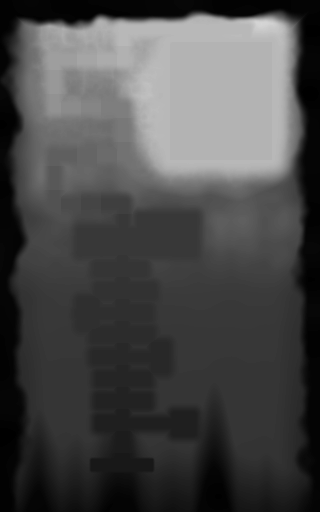
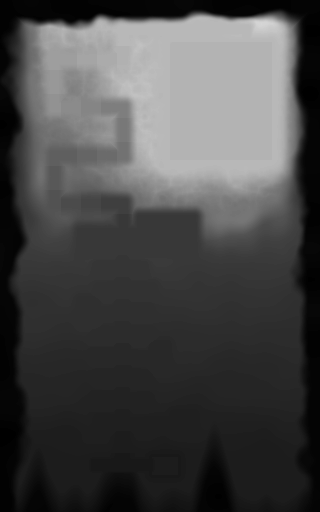
fix(foot-of-the-mountain): the shoulder falls away below the town so the lower street is not in a cut; a broader summit plateau round Doune; the harbour plot on the quay's east side
node/harbour: [153,458], extent [24,16], floor 64, a contact on the
quay's east face; a stand-in, its program the buildings round's.
Town: 24,231 of 133,781 land columns (18.1%) within eight cells of a town box.

Changed region(s): [[0.3125, 0.2188, 0.9062, 0.4375], [0.2812, 0.125, 0.4062, 0.2812], [0.4688, 0.875, 0.5, 0.9062]]

diff --git a/campaigns/foot-of-the-mountain/design/generator/plan.py b/campaigns/foot-of-the-mountain/design/generator/plan.py
@@ -358,6 +358,10 @@ THEMES = {
     "townhall": ("the guildhall", "The guildhall: a hall on an open arcade, a clock over the door.",
                  [("structure", "hall", 0.42, 14, "the guildhall over its open arcade"),
                   ("ground", "forecourt", 0.20, None, "the forecourt")]),
+    "harbour": ("the harbour", "The harbourmaster's house on the quay's east end, and the fishing boats moored along its edge as fixed builds.",
+                [("structure", "harbourmaster", 0.22, 9, "the harbourmaster's house: an office facing the quay, a store behind"),
+                 ("structure", "boats", 0.20, 6, "fishing boats moored along the quay's edge, masts and furled sails"),
+                 ("ground", "quayside", 0.30, None, "the quayside: bollards, nets, crates")]),
     "lighthouse": ("the lighthouse", "A tall white lighthouse on the headland with the keeper's cottage and a walled yard.",
                    [("structure", "tower", 0.14, 30, "the lighthouse tower, a stair to the lantern room"),
                     ("structure", "cottage", 0.16, 8, "the keeper's cottage"),
@@ -431,6 +435,8 @@ for st, face, theme, dx, dz, at in MAIN:
 for ln, face, theme, at, dx, dz in LANE:
     plot(theme, theme.split("-")[0], f"node/{ln}", face, at, 0, dx, dz)
 plot("lighthouse", "lighthouse", "node/lane-8", "east", 0, 7, 20, 20)
+# the harbour plot on the quay's east side, at the quay's floor
+plot("harbour", "harbour", "node/quay", "east", 0, 2, 24, 16)
 
 # ---------------------------------------------------------- consistency check
 names = list(pos)
@@ -538,17 +544,17 @@ def mountain(x, z):
     wz = z + (fbm(x, z, 60, 2, 43) - 0.5) * 30
     top = SQ[1] - 18                                  # the town's upper edge
     # the shoulder the road climbs: rising north from the town's edge
-    shoulder = 80 + 0.40 * max(0.0, top - wz) - 0.0012 * max(0.0, top - wz) ** 2 * 0
+    shoulder = 84 + 0.40 * (top - wz)               # falls away south of the town's edge too
     # the plateau round Doune, falling away on every side
     d = math.hypot((wx - CX) / 150, (wz - CZ) / (105 if wz > CZ else 150))
-    plateau = 60 + (CASTLE_WALK - 60) * (1 - smooth((d - 0.45) / 0.75))
+    plateau = 50 + (CASTLE_WALK - 50) * (1 - smooth((d - 0.60) / 0.95))
     # the summit, north-east of Doune
     p = math.hypot((wx - (CX + 40)) / 80, (wz - (CZ - 55)) / 70)
     summit = CASTLE_WALK - 20 + 56 * (1 - smooth(p)) ** 1.3
     h = max(min(shoulder, CASTLE_WALK - 2), plateau, summit if p < 1 else 0)
     # fade the mountain into the island's low country east and west
     fade = smooth((x - 8) / 40) * smooth((RX - 8 - x) / 40)
-    h = 66 + (h - 66) * fade
+    h = 50 + (h - 50) * fade
     # uneven ledges and broken rock, strongest where the ground is high
     up = smooth((h - 90) / 40)
     h += (ridged(x, z, 18, 3, 47) - 0.45) * 12 * up + (vnoise(x, z, 5, 49) - 0.5) * 3.5 * up
@@ -609,7 +615,7 @@ for n, x0, z0, dx, dz, f in rects:
                 target = f - 1
                 w = 1.0 if max(ddx, ddz) <= 1 else smooth(1 - (d - 1) / skirt)
             if n == "node/harbour" and max(ddx, ddz) <= 1:
-                continue  # the basin and its ring keep the sea floor
+                continue  # the harbour keeps the shore and the sea floor under it
             if w > W[z][x] + 1e-9 or (abs(w - W[z][x]) < 1e-9 and target > T[z][x]):
                 W[z][x] = w
                 T[z][x] = target
